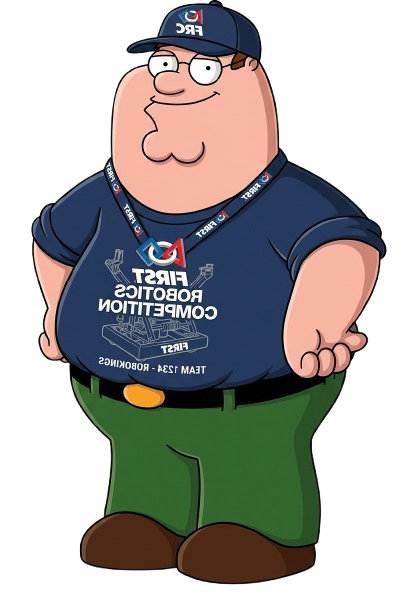
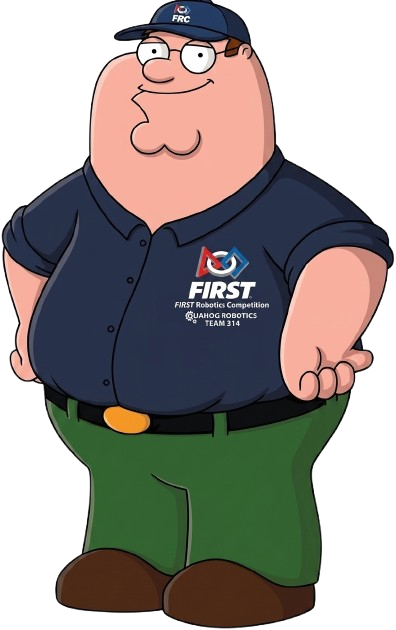
improved sprites

diff --git a/tests/test_renderer_compat.py b/tests/test_renderer_compat.py
@@ -1,6 +1,8 @@
 import sys
 import types
 import unittest
+from pathlib import Path
+from tempfile import TemporaryDirectory
 from unittest.mock import patch
 
 from stewie_explainer.models import DialogueTurn, ExplainerScript, WordTiming
@@ -105,6 +107,57 @@ class RendererCompatTests(unittest.TestCase):
     def test_audio_timeline_rejects_missing_audio(self) -> None:
         with self.assertRaisesRegex(ValueError, "Missing audio"):
             renderer._audio_timeline(make_script_with_missing_audio(), object)
+
+    def test_character_positions_put_stewie_left_and_peter_right(self) -> None:
+        class FakeCharacterClip:
+            def __init__(self, image_path):
+                self.image_path = str(image_path)
+                self.base_w, self.base_h = (414, 602) if "peter" in self.image_path else (781, 987)
+
+            def with_start(self, start):
+                self.start = start
+                return self
+
+            def with_duration(self, duration):
+                self.duration = duration
+                return self
+
+            def resized(self, height):
+                self.h = height
+                self.w = int(self.base_w * (height / self.base_h))
+                return self
+
+            def with_position(self, position):
+                self.position = position
+                return self
+
+        with TemporaryDirectory() as tmp:
+            assets_dir = Path(tmp)
+            (assets_dir / "peter.png").touch()
+            (assets_dir / "stewie.png").touch()
+
+            peter = renderer._character_clip(
+                DialogueTurn("peter", "Answer"),
+                0,
+                1,
+                assets_dir,
+                1080,
+                1920,
+                FakeCharacterClip,
+            )
+            stewie = renderer._character_clip(
+                DialogueTurn("stewie", "Question"),
+                0,
+                1,
+                assets_dir,
+                1080,
+                1920,
+                FakeCharacterClip,
+            )
+
+        self.assertEqual(stewie.position[0], 43)
+        self.assertGreater(peter.position[0], 1080 // 2)
+        self.assertLess(stewie.h, peter.h)
 
 
 if __name__ == "__main__":

diff --git a/stewie_explainer/renderer.py b/stewie_explainer/renderer.py
@@ -146,7 +146,7 @@ def _character_clip(
     if not image_path.exists():
         return None
 
-    target_height = _character_height(frame_height)
+    target_height = _character_height(frame_height, turn.speaker)
     character = (
         image_clip_factory(str(image_path))
         .with_start(start_time)
@@ -156,13 +156,15 @@ def _character_clip(
 
     # Keep speakers anchored to opposite sides while leaving room for centered subtitles.
     margin = max(36, int(frame_width * 0.04))
-    x = margin if turn.speaker == "peter" else max(margin, frame_width - character.w - margin)
+    x = max(margin, frame_width - character.w - margin) if turn.speaker == "peter" else margin
     y = max(0, frame_height - character.h - max(18, int(frame_height * 0.04)))
     return character.with_position((x, y))
 
 
-def _character_height(frame_height: int) -> int:
-    return min(540, max(280, int(frame_height * 0.55)))
+def _character_height(frame_height: int, speaker: str) -> int:
+    if speaker == "stewie":
+        return min(576, max(300, int(frame_height * 0.56)))
+    return min(648, max(336, int(frame_height * 0.66)))
 
 
 def _word_by_word_subtitles(
